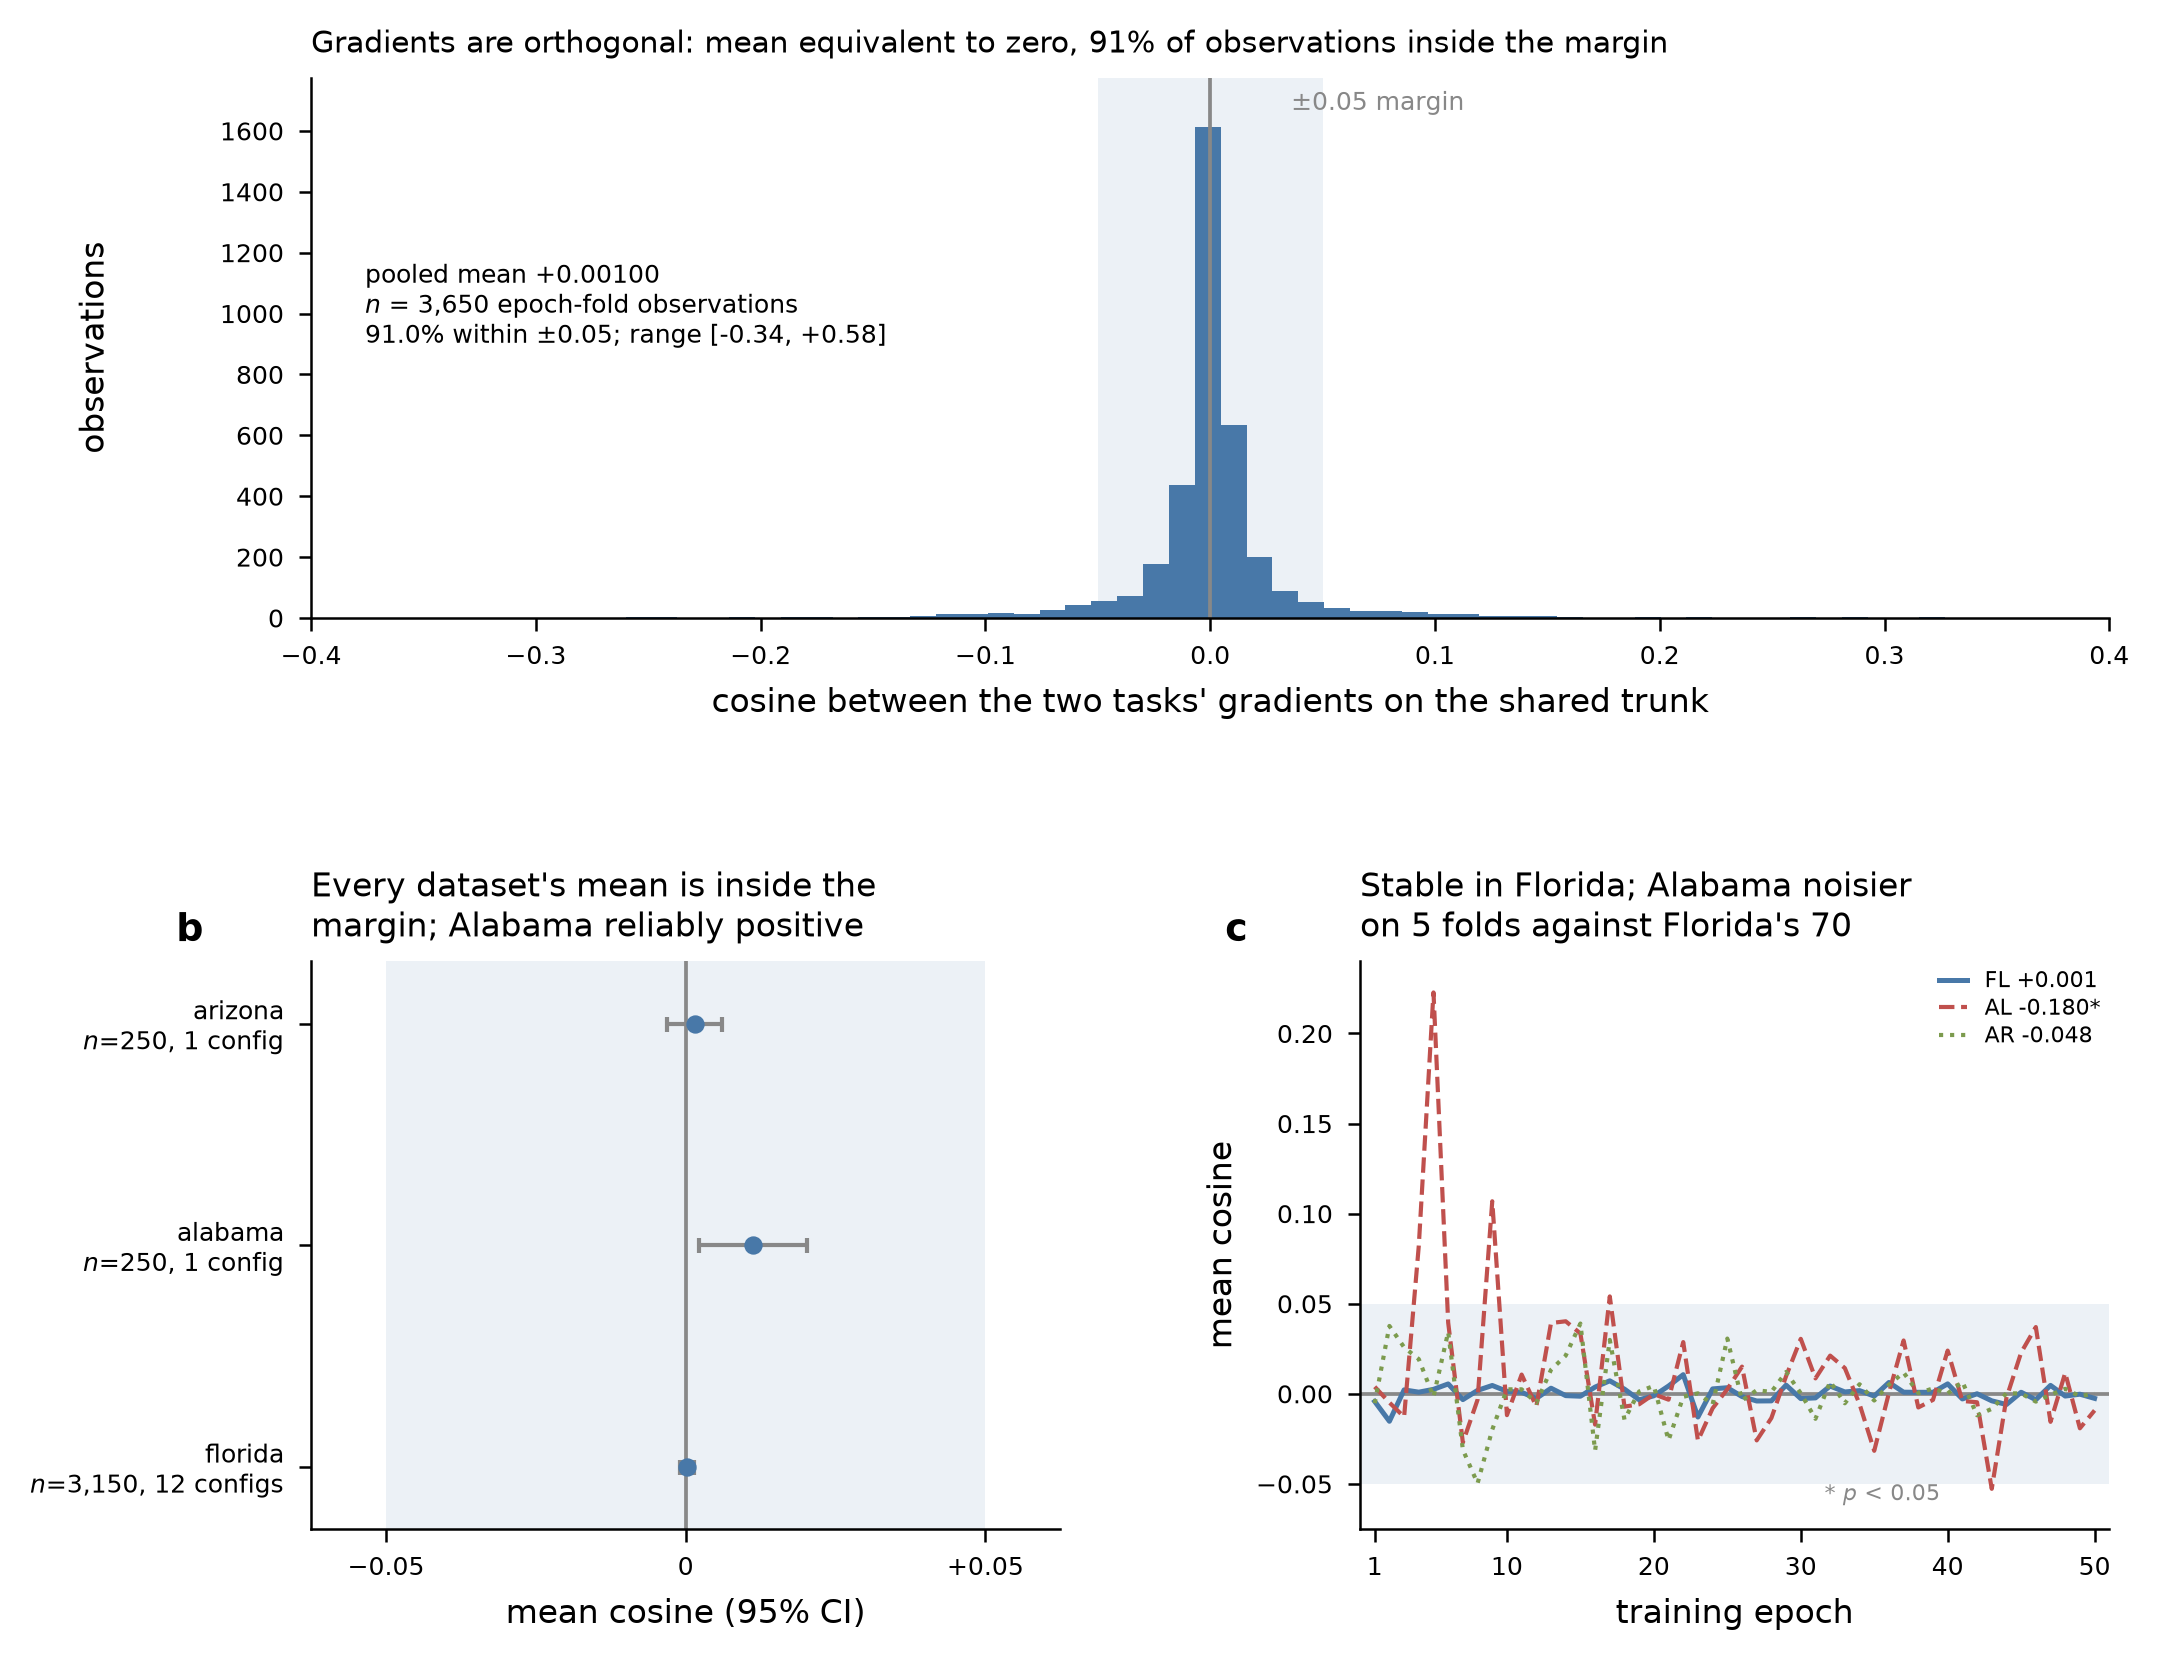
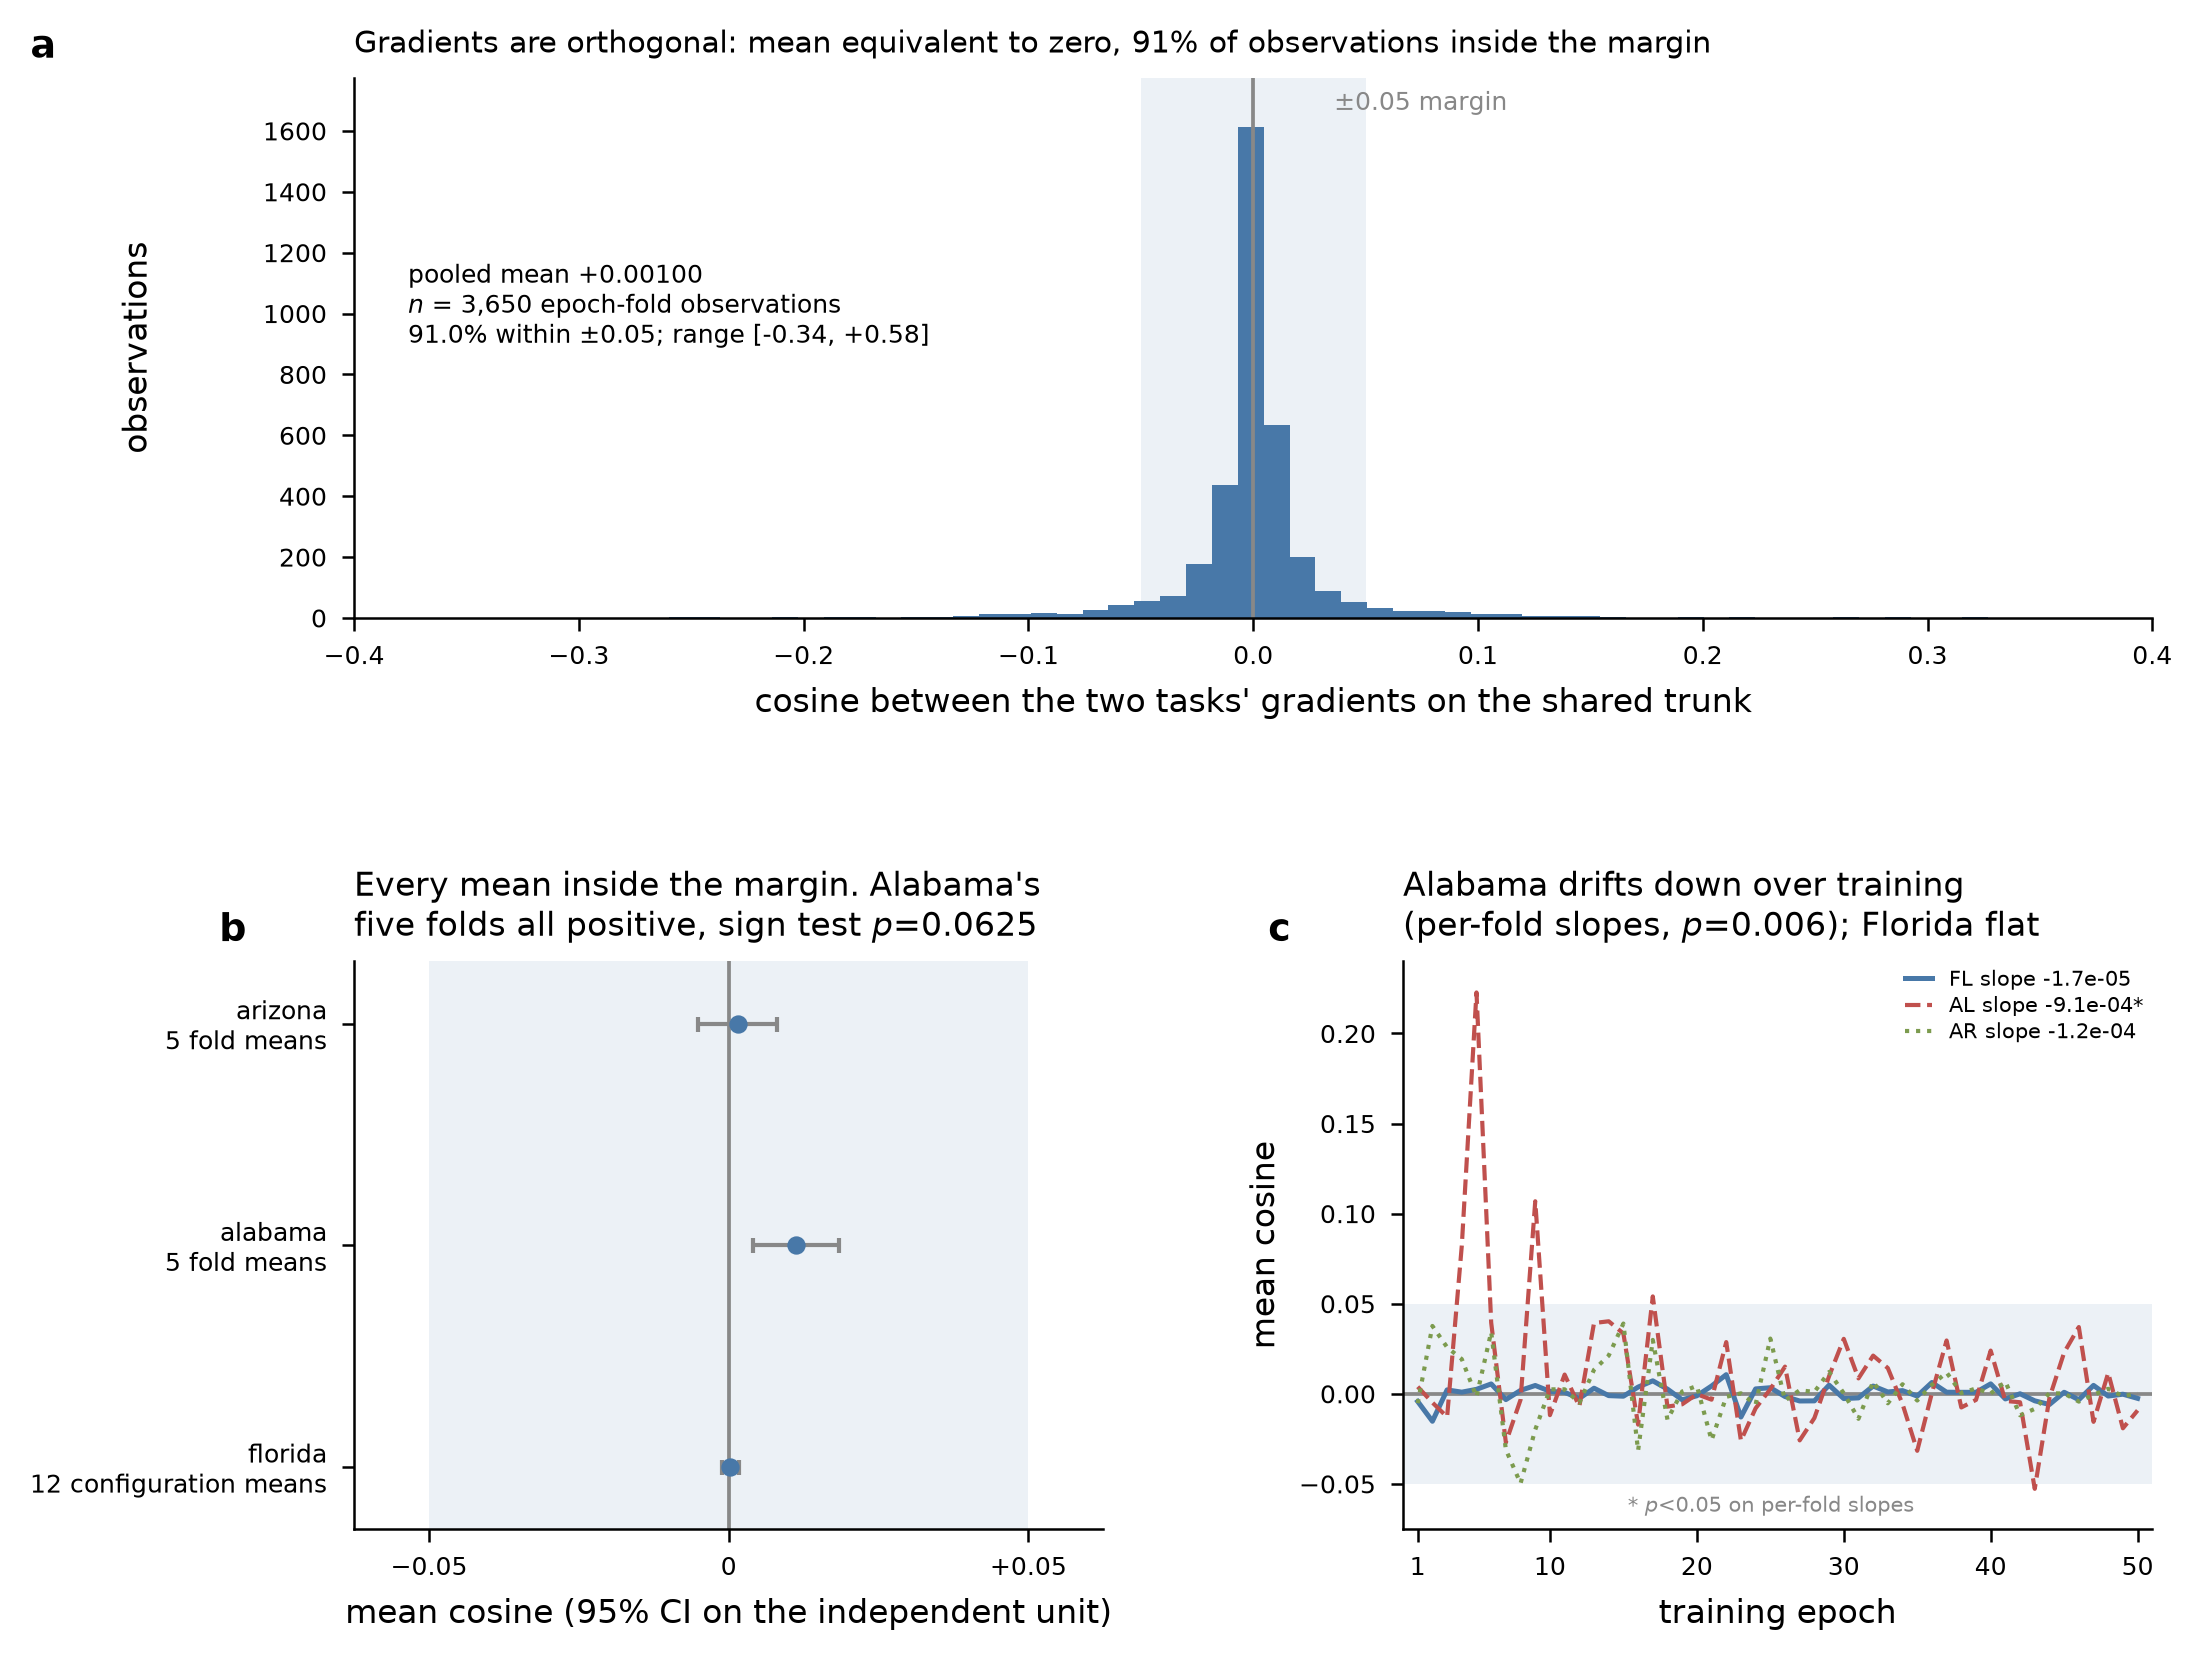
fix(stats): I treated 250 serially-dependent cosines as independent, and pushed the p-value at the appendix
THE DEFECT. Every per-dataset p-value I computed -- t-test, TOST, sign test -- ran on the raw
grad_cosine_shared column, treating 250 values as 250 independent observations. They are not. Those
250 are 5 folds x 50 consecutive epochs: within a fold, the 50 values are one training trajectory.
The unit of independence is the FOLD, and for Florida, whose 12 configurations reuse the same 5 folds,
the CONFIGURATION. Effective n is 5 and 12, not 250 and 3150.

Worse than getting it wrong once: I wrote "THE NUANCE THAT MUST SURVIVE INTO THE PROSE. Alabama's mean
is significantly POSITIVE (p=0.016)" into a commit message, sent it to the appendix sub-agent twice,
and reported it to the author. An unadjusted p-value was on its way into the dissertation as a
directive.

REDONE AT EVERY LEVEL, so a reader can see which claims survive aggregation. The two claims diverge:

  dataset  unit                             n     mean    t_p    sign_p  TOST(0.05)
  florida  observation (DEPENDENT)       3150  0.00015  0.8032  0.2059   equivalent
  florida  fold-series mean                60  0.00026  0.6760  0.8974   equivalent
  florida  configuration mean              12  0.00026  0.6965  0.7744   equivalent
  alabama  observation (DEPENDENT)         250  0.01119  0.0157  0.1137   equivalent
  alabama  fold-series mean                 5  0.01119  0.0125  0.0625   equivalent
  arizona  observation (DEPENDENT)         250  0.00150  0.5241  0.3428   equivalent
[…]

diff --git a/articles/dissertacao/src_utils/_round7/gradient_cosine_tests_README.md b/articles/dissertacao/src_utils/_round7/gradient_cosine_tests_README.md
@@ -1,0 +1,32 @@
+# gradient_cosine_tests.csv -- read the `unit` column before quoting any p-value
+
+Each dataset appears at every level of aggregation, because the level decides what the p-value means.
+
+`observation (epoch-fold, SERIALLY DEPENDENT)` -- one row per (fold, epoch). These 50 values per fold
+are consecutive epochs of ONE training trajectory, so they are NOT independent draws. A t-test, TOST
+or sign test computed here treats n=250 or n=3150 as i.i.d. and is ANTI-CONSERVATIVE: the p-value is
+smaller than the evidence supports. Reported here only for continuity with the raw data; do NOT quote
+its p-values as significance.
+
+`fold-series mean` -- one value per fold. A fold is one train/validation split, so this is the
+independent unit of the protocol. n=5 per dataset (n=60 for Florida, five folds x twelve
+configurations). THIS IS THE UNIT TO QUOTE.
+
+`configuration mean` -- Florida only. Its twelve configurations reuse the same five folds, so the
+configurations are not independent of one another either; averaging to one value per configuration
+(n=12) is the most conservative reading available.
+
+`sign_p_floor_at_this_n` -- the smallest p the sign test could return at that n if EVERY value agreed
+in direction. At n=5 the floor is 0.0625, so a distribution-free test cannot reach 0.05 no matter how
+consistent the effect. Any "significant" claim at n=5 therefore rests entirely on the normality
+assumption of the t-test, and should be reported as suggestive rather than established.
+
+## What survives aggregation, and what does not
+
+ROBUST: equivalence to zero within +/-0.05 holds by TOST at every dataset and every unit. This is the
+appendix's claim and it does not depend on the dependence question.
+
+NOT ROBUST: Alabama's positive mean. At the fold level its five fold means are all positive
+(mean +0.0112, sd 0.0058) and the t-test rejects (p=0.0125), but the sign test cannot (p=0.0625, which
+is its floor at n=5). Report it as a consistent positive tendency on five folds, not as a significant
+effect.
